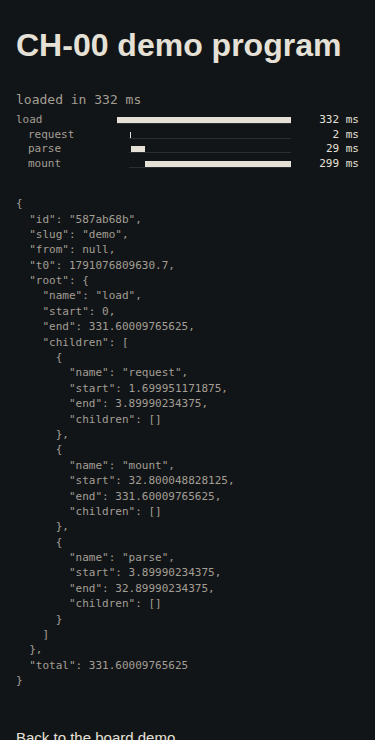
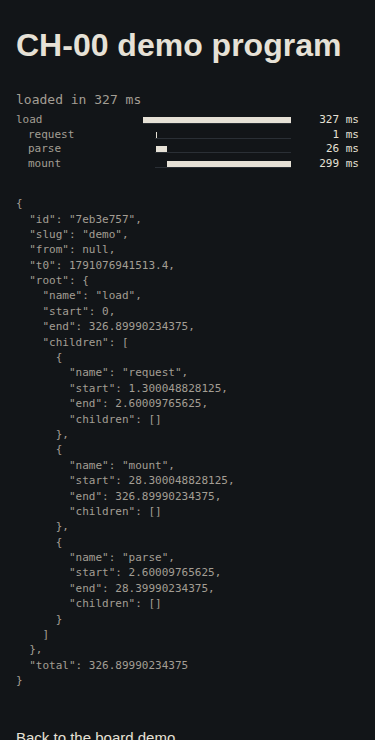
motion: r1 nits (trace name column 18ch, loadProgram caller rule); status ready for merge
Claude-Session: https://claude.ai/code/session_01BAojZhjiTdwRYFxWNewQ3j

diff --git a/shared/motion/motion.css b/shared/motion/motion.css
@@ -34,7 +34,7 @@ html.is-bell { filter: invert(1); }
 
 /* Trace waterfall defaults (renderTrace). Zero specificity: restyle freely. */
 :where(.trace) { list-style: none; margin: 0; padding: 0; font: var(--fs-id, 0.6875rem)/var(--lh-ui, 1.35) var(--font-mono, ui-monospace, monospace); font-variant-numeric: tabular-nums slashed-zero; }
-:where(.trace-span) { display: grid; grid-template-columns: 14ch 1fr 9ch; gap: var(--s-2, 8px); align-items: center; padding-inline-start: calc(var(--depth, 0) * var(--s-3, 12px)); }
+:where(.trace-span) { display: grid; grid-template-columns: 18ch 1fr 9ch; gap: var(--s-2, 8px); align-items: center; padding-inline-start: calc(var(--depth, 0) * var(--s-3, 12px)); }
 :where(.trace-name) { color: var(--legend-dim, #A39E94); overflow: hidden; text-overflow: ellipsis; white-space: nowrap; }
 :where(.trace-track) { display: block; block-size: 6px; border-block-end: var(--hair, 1px) solid var(--rule, #2A2F35); }
 :where(.trace-bar) { display: block; block-size: 100%; background: var(--legend, #E6E1D6); }

diff --git a/shared/motion/README.md b/shared/motion/README.md
@@ -27,6 +27,16 @@ import { loadProgram, mountProgram, bell, lampTest, reducedMotion,
 loadBtn.onclick = () => loadProgram('gods-eye', { href: '/gods-eye', rail: strip.querySelector('.trace-rail') });
 ```
 
+Caller rule: intercept only unmodified primary clicks. Let Ctrl/Cmd/Shift/Alt and middle clicks fall through to the link's `href`:
+
+```js
+link.addEventListener('click', e => {
+  if (e.button !== 0 || e.metaKey || e.ctrlKey || e.shiftKey || e.altKey) return;
+  e.preventDefault();
+  loadProgram(slug, { href: link.href, rail });
+});
+```
+
 Records a `"request"` span around a real `fetch(href)`, saves the trace to sessionStorage, fades to `--construct`, then navigates. It never blocks: a failed fetch is named `request (failed)`, and a fetch still pending after 5 s (1.5 s under reduced motion) is named `request (timeout)`. Either way it navigates. Repeated calls while one is running return the same promise.
 
 - **Fade:** a fixed `--construct` layer fades in over the body (`html.is-leaving::after`, opacity only). It works whatever element the page paints its ground on.

diff --git a/.agents/status/motion.md b/.agents/status/motion.md
@@ -1,6 +1,6 @@
 # motion
 
-status: in critique
+status: ready for merge
 branch: agent/motion
 updated: 2026-10-04
-note: DESIGN.md §8 implemented + both amendments; 25/25 Playwright checks. Handoff in .agents/handoff/motion.md
+note: r1 PASS (artdirector, .agents/critique/motion-r1.md); nits N1+N2 applied
